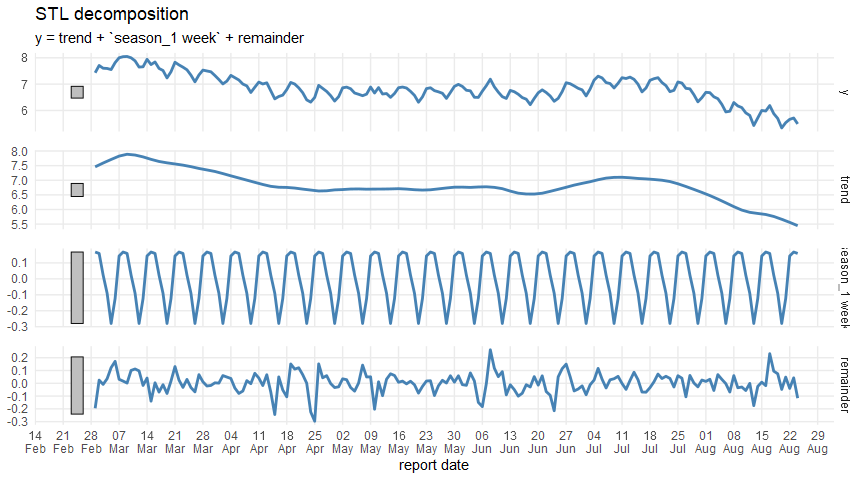
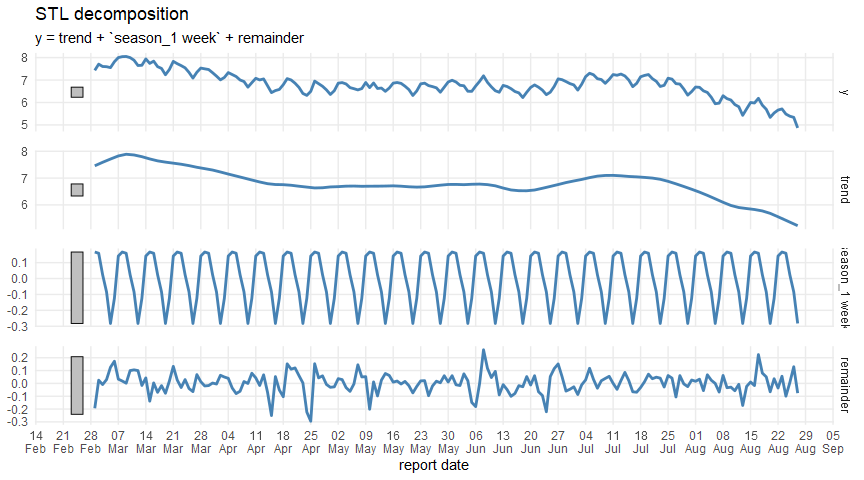
Update for 20220828

diff --git a/covid-post-peak-analysis.md b/covid-post-peak-analysis.md
@@ -34,7 +34,7 @@ cases_df <- read_csv(case_data_url) %>%
   clean_names()
 ```
 
-    ## Rows: 1728018 Columns: 7
+    ## Rows: 1734157 Columns: 7
     ## ── Column specification ────────────────────────────────────────────────────────
     ## Delimiter: ","
     ## chr  (5): Case Status, Sex, Age group, DHB, Overseas travel
@@ -51,7 +51,7 @@ cases_by_dhb_df <- cases_df %>%
   count(report_date, dhb, case_status)
 ```
 
-## Wellington figures up to 24 Aug 2022
+## Wellington figures up to 27 Aug 2022
 
 Including Hutt and Wairarapa as well as CCDHB.
 
@@ -171,11 +171,11 @@ maxima <- dhb_cases_after_transform_stl_df %>%
   summarise(cases = max(cases), adjusted = max(season_adjust), trend = max(trend))
 ```
 
-Looking at raw case numbers, the peak on 9 Mar 2022 was about 15.1 times
+Looking at raw case numbers, the peak on 9 Mar 2022 was about 24.3 times
 the lowest recent value.
 
-But when adjusting for the weekly pattern, it was 14.2 times the lowest
-recent adjusted value, and the trend was about 11.5 times the lowest
+But when adjusting for the weekly pattern, it was 17 times the lowest
+recent adjusted value, and the trend was about 14.4 times the lowest
 recent trend line.
 
 While the trend might be over-smoothed, the peak coincinded with the
